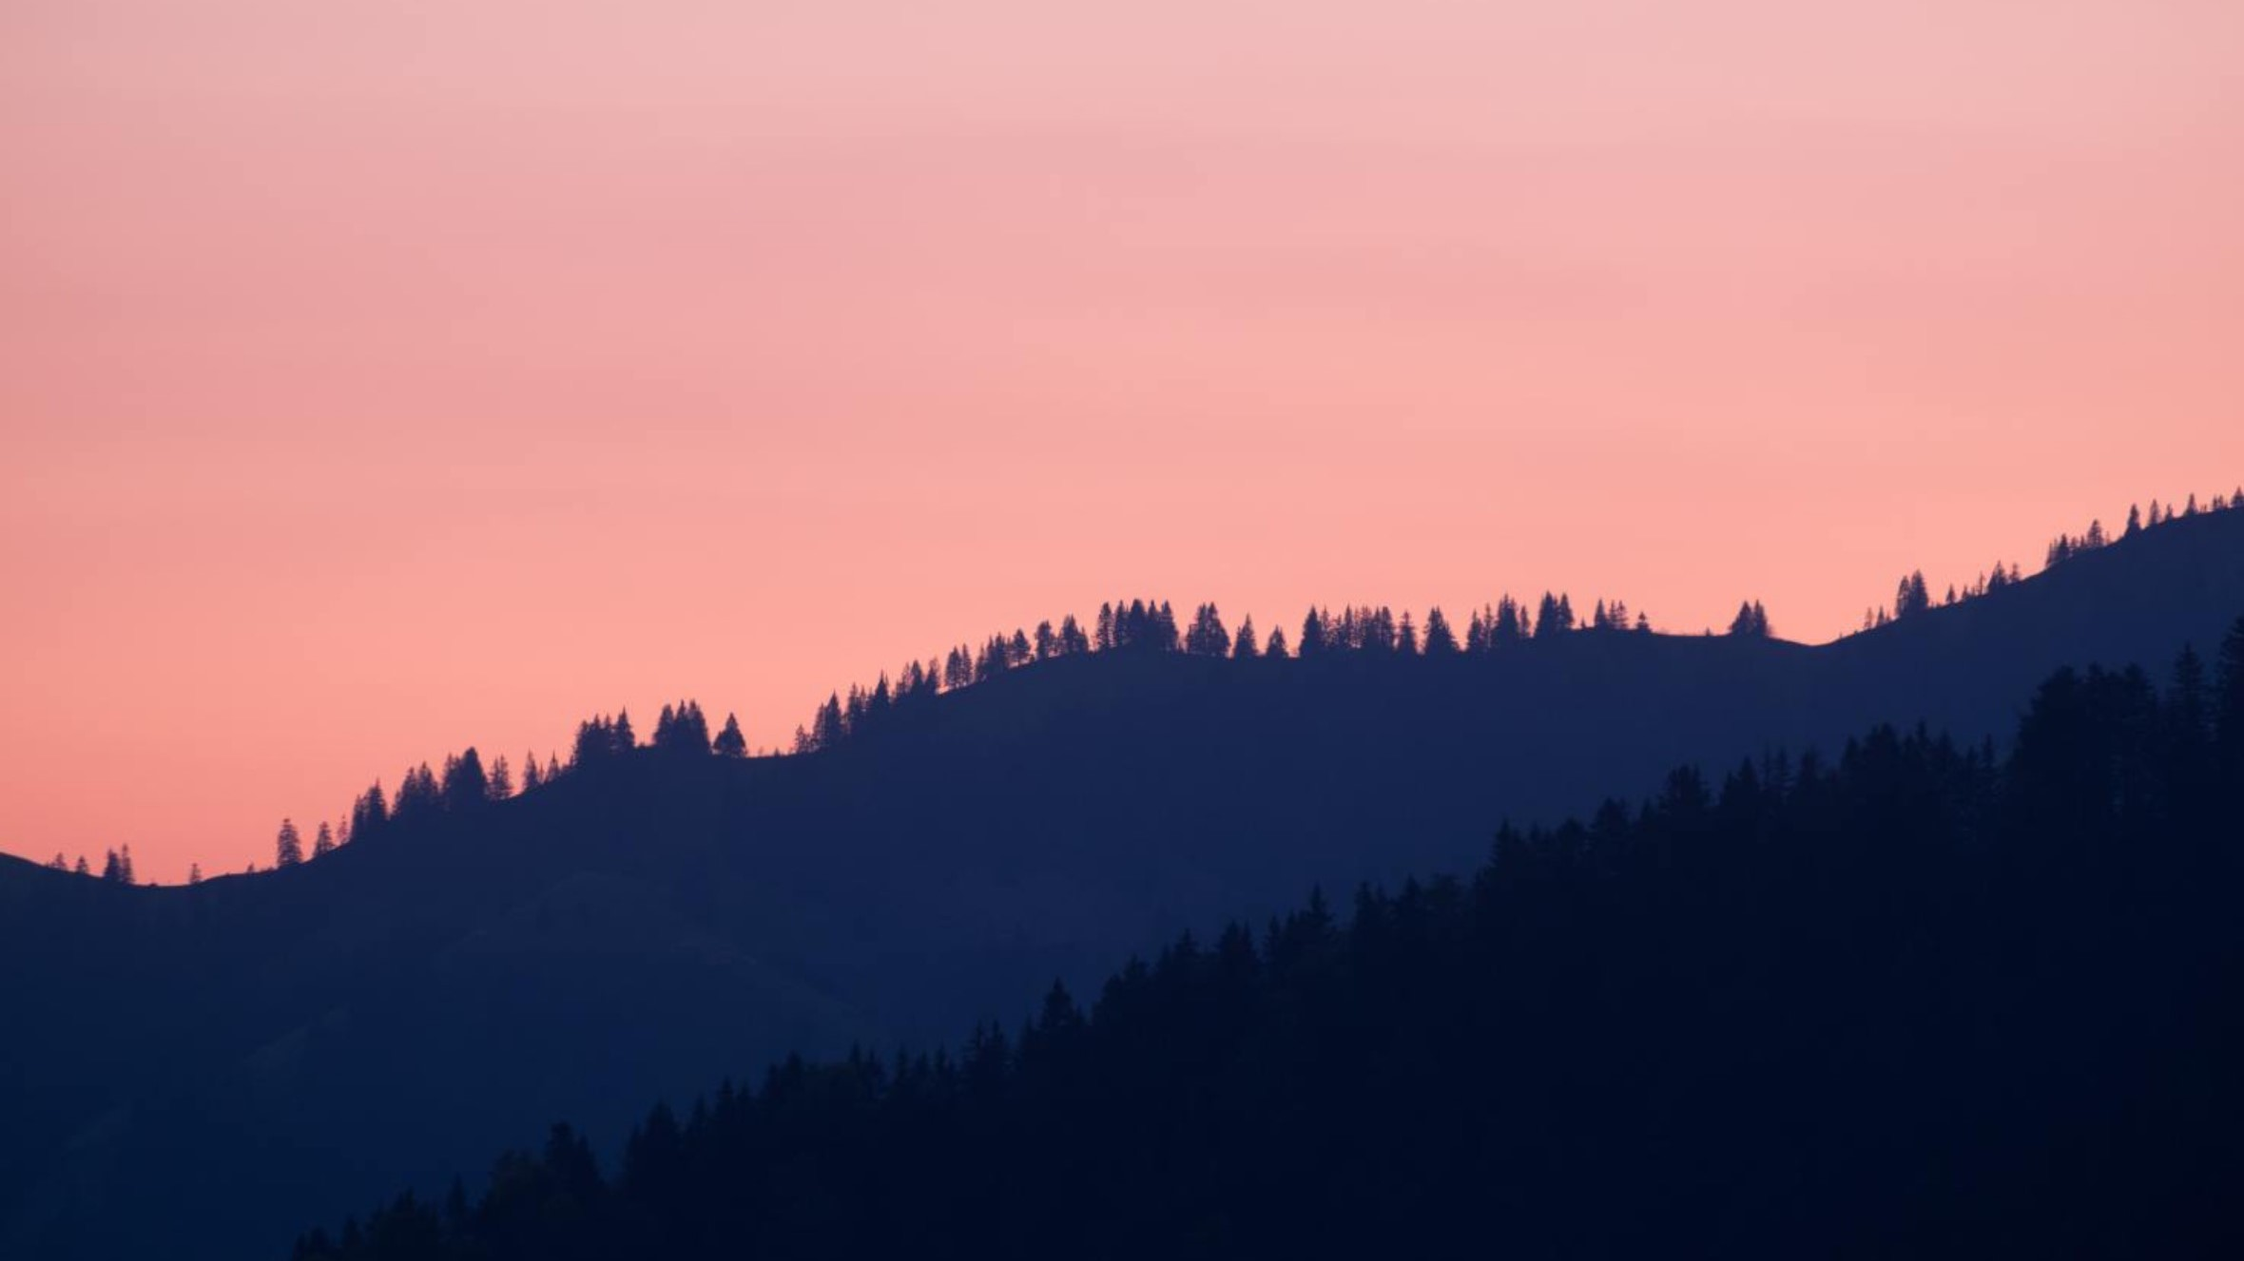
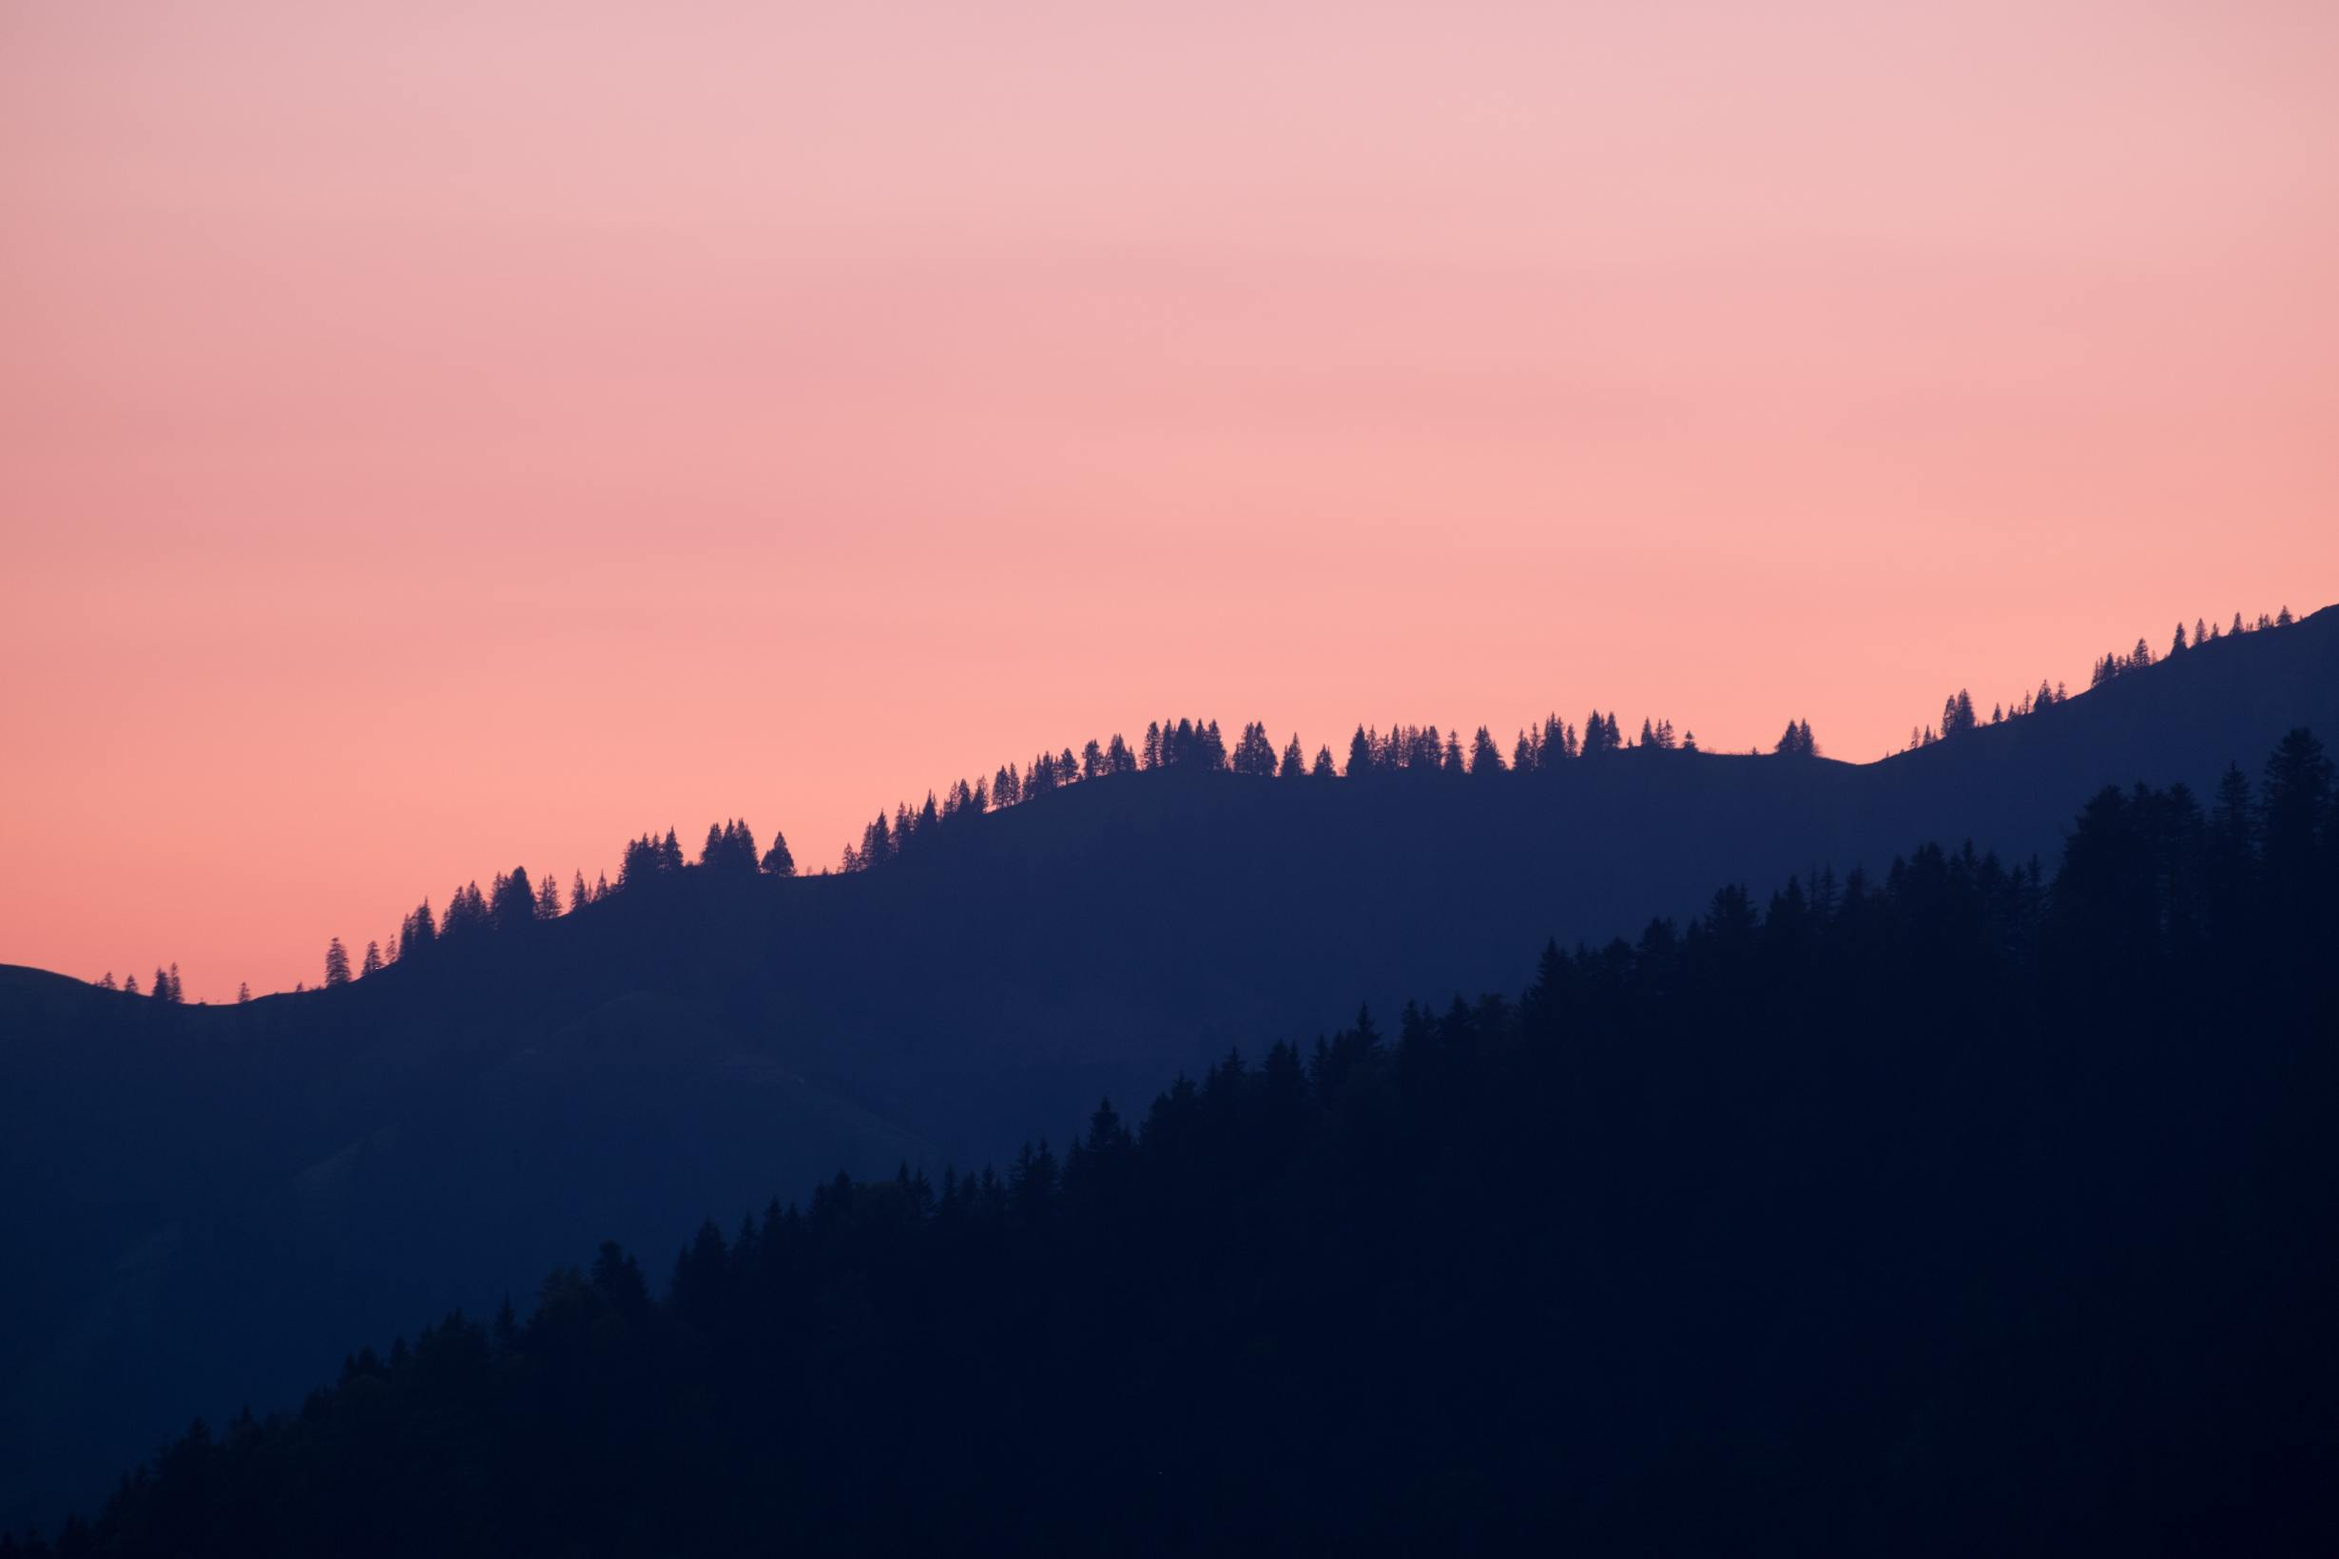
Site updated: 2021-07-25 21:13:20

Changed region(s): [[0.0, 0.3708, 1.0, 1.0]]

diff --git a/categories/index.html b/categories/index.html
@@ -90,7 +90,7 @@
     header.intro-header{
         
             
-                background-image: linear-gradient(rgba(0, 0, 0, 0.3), rgba(0, 0, 0, 0.3)), url('/img/header_img/18.jpg')
+                background-image: linear-gradient(rgba(0, 0, 0, 0.3), rgba(0, 0, 0, 0.3)), url('/img/header_img/23.jpg')
                 /*page*/
             
         

diff --git a/photography/index.html b/photography/index.html
@@ -90,7 +90,7 @@
     header.intro-header{
         
             
-                background-image: linear-gradient(rgba(0, 0, 0, 0.3), rgba(0, 0, 0, 0.3)), url('/img/header_img/16.jpg')
+                background-image: linear-gradient(rgba(0, 0, 0, 0.3), rgba(0, 0, 0, 0.3)), url('/img/header_img/24.jpg')
                 /*page*/
             
         

diff --git a/about/index.html b/about/index.html
@@ -90,7 +90,7 @@
     header.intro-header{
         
             
-                background-image: linear-gradient(rgba(0, 0, 0, 0.3), rgba(0, 0, 0, 0.3)), url('/img/header_img/14.jpg')
+                background-image: linear-gradient(rgba(0, 0, 0, 0.3), rgba(0, 0, 0, 0.3)), url('/img/header_img/1.jpg')
                 /*page*/
             
         

diff --git a/archive/index.html b/archive/index.html
@@ -90,7 +90,7 @@
     header.intro-header{
         
             
-                background-image: linear-gradient(rgba(0, 0, 0, 0.3), rgba(0, 0, 0, 0.3)), url('/img/header_img/2.jpg')
+                background-image: linear-gradient(rgba(0, 0, 0, 0.3), rgba(0, 0, 0, 0.3)), url('/img/header_img/40.jpg')
                 /*page*/
             
         

diff --git a/tags/index.html b/tags/index.html
@@ -90,7 +90,7 @@
     header.intro-header{
         
             
-                background-image: linear-gradient(rgba(0, 0, 0, 0.3), rgba(0, 0, 0, 0.3)), url('/img/header_img/4.jpg')
+                background-image: linear-gradient(rgba(0, 0, 0, 0.3), rgba(0, 0, 0, 0.3)), url('/img/header_img/43.jpg')
                 /*page*/
             
         

diff --git a/2021/07/20/Hexo-Theme-Snail/index.html b/2021/07/20/Hexo-Theme-Snail/index.html
@@ -90,7 +90,7 @@
     header.intro-header{
         
             
-                background-image: linear-gradient(rgba(0, 0, 0, 0.3), rgba(0, 0, 0, 0.3)), url('snail-bg.jpg')
+                background-image: linear-gradient(rgba(0, 0, 0, 0.3), rgba(0, 0, 0, 0.3)), url('1.jpg')
                 /*post*/
             
         
